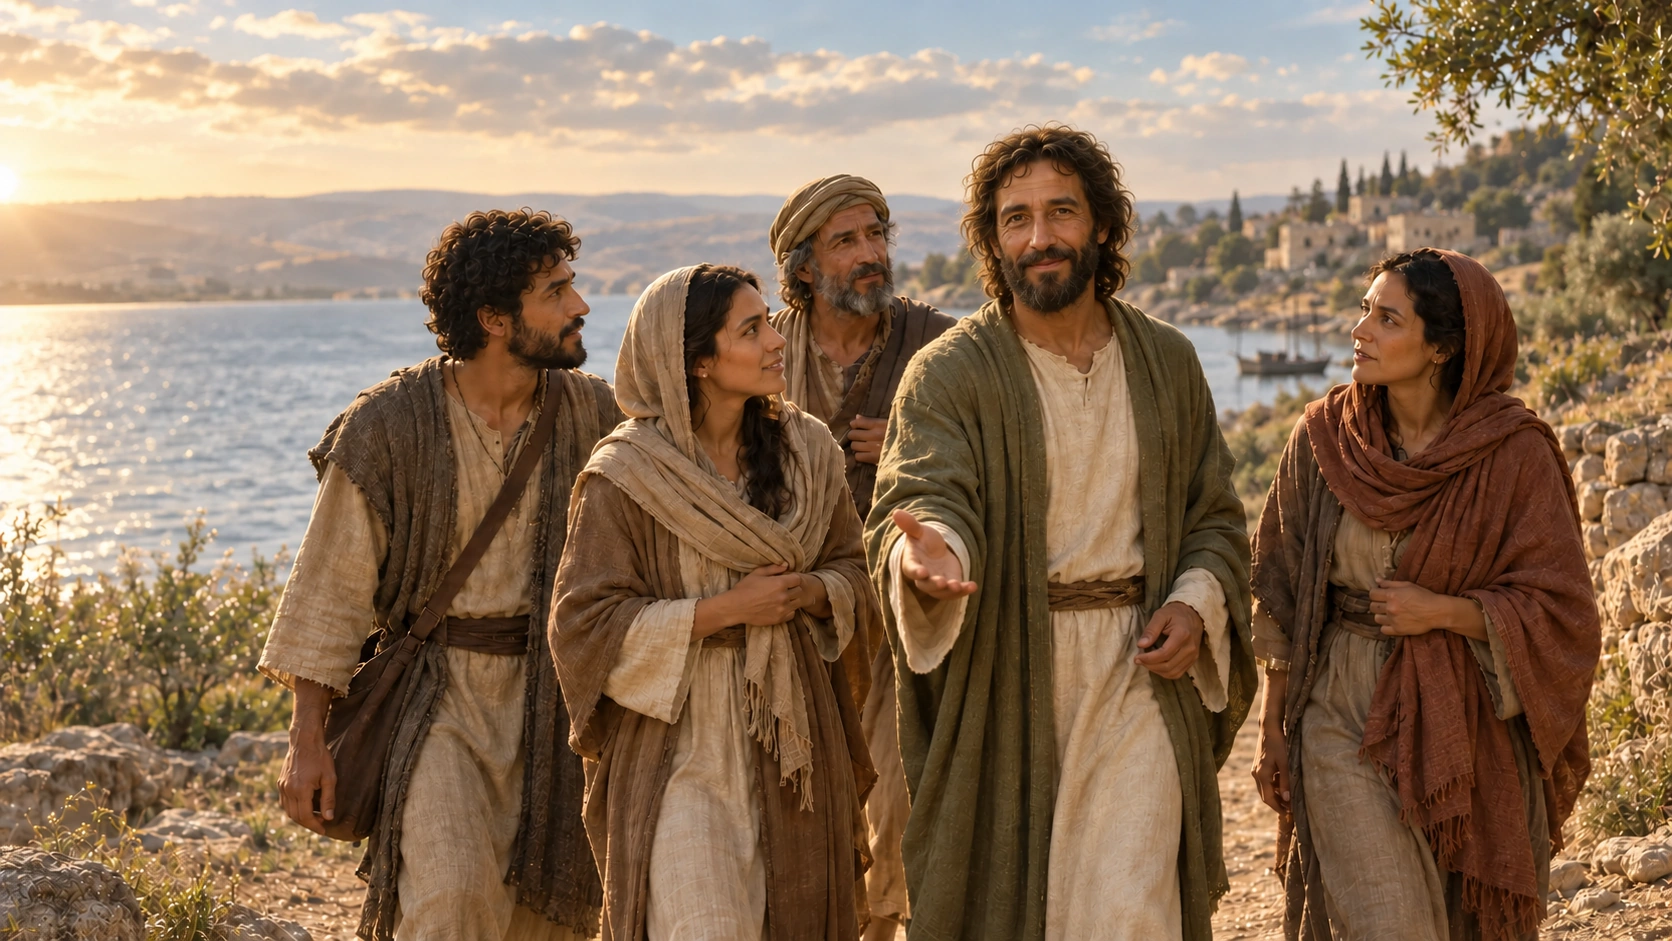
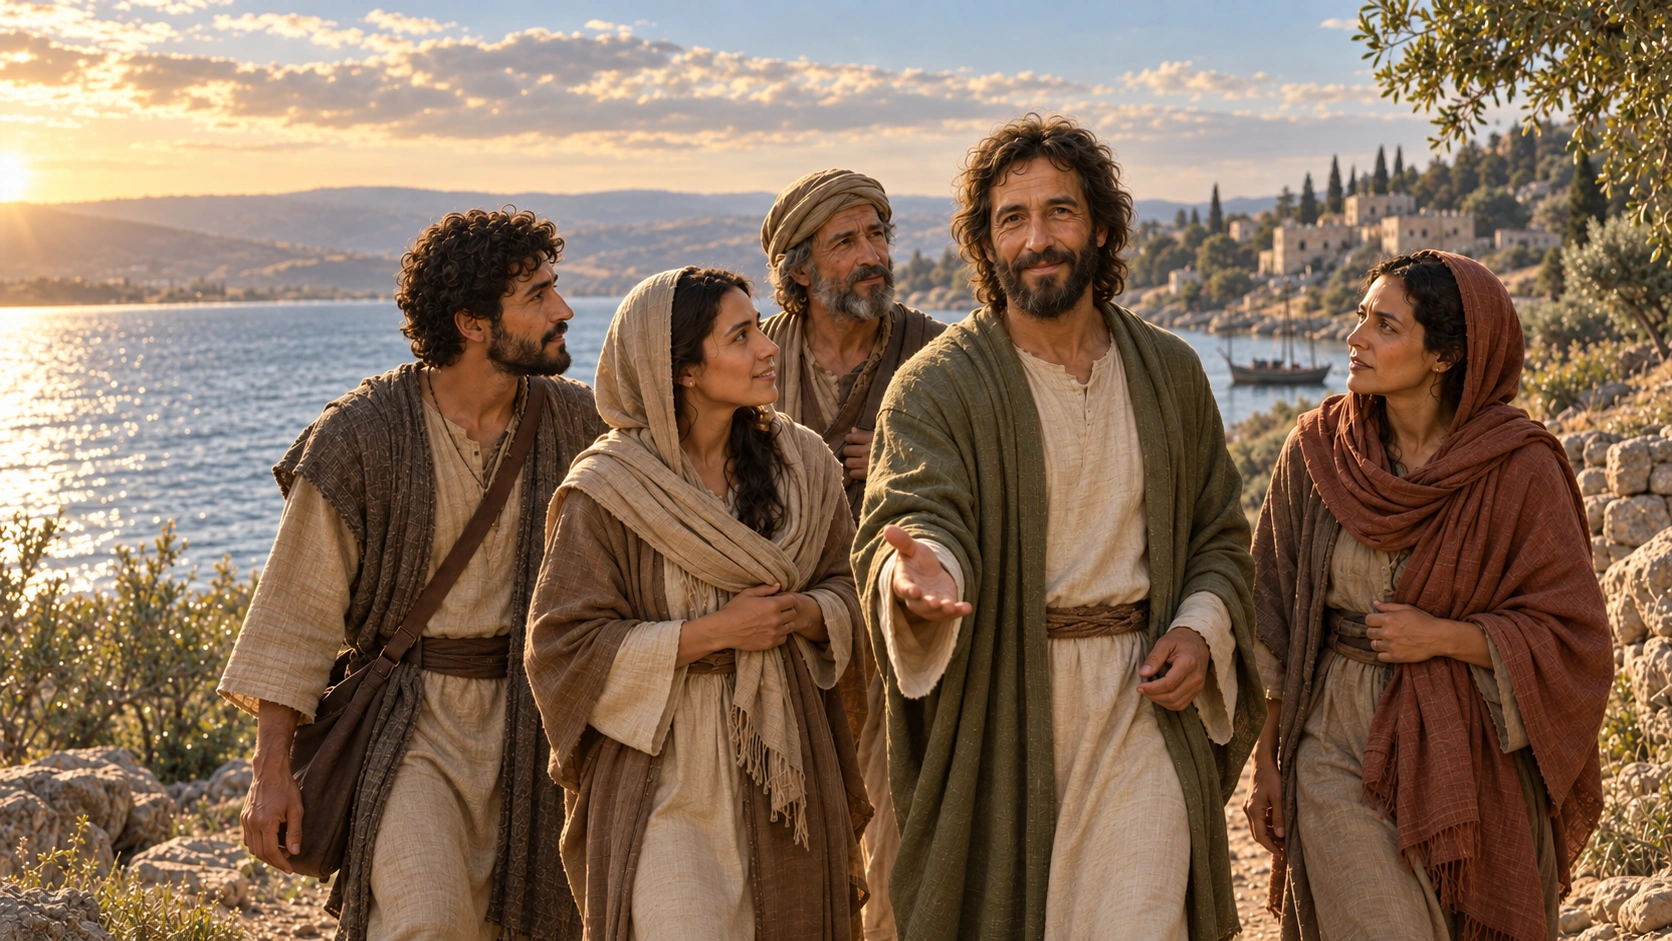
Publish approved Home artwork clarity correction

diff --git a/index.html b/index.html
@@ -80,8 +80,8 @@
         <section class="fc-section">
             <div class="fc-container--standard">
                 <figure class="fc-content-artwork fc-home-featured-art fc-home-featured-art--invitation">
-                    <a class="fc-art-link" href="assets/page-art/home-come-and-see-1672.webp?v=20260905-approved-gaze" target="_blank" rel="noopener noreferrer" data-artwork-detail="home-come-and-see" aria-haspopup="dialog" aria-label="Learn about Christ's invitation to come and see">
-                    <img src="assets/page-art/home-come-and-see-900.webp?v=20260905-approved-gaze" srcset="assets/page-art/home-come-and-see-900.webp?v=20260905-approved-gaze 900w, assets/page-art/home-come-and-see-1672.webp?v=20260905-approved-gaze 1672w" sizes="(max-width: 1076px) calc(100vw - 36px), 1040px" alt="Jesus Christ inviting four attentive seekers to walk with Him beside the Sea of Galilee" width="1672" height="941" loading="lazy" decoding="async">
+                    <a class="fc-art-link" href="assets/page-art/home-come-and-see-1672.webp?v=20260905-approved-clarity" target="_blank" rel="noopener noreferrer" data-artwork-detail="home-come-and-see" aria-haspopup="dialog" aria-label="Learn about Christ's invitation to come and see">
+                    <img src="assets/page-art/home-come-and-see-900.webp?v=20260905-approved-clarity" srcset="assets/page-art/home-come-and-see-900.webp?v=20260905-approved-clarity 900w, assets/page-art/home-come-and-see-1672.webp?v=20260905-approved-clarity 1672w" sizes="(max-width: 1076px) calc(100vw - 36px), 1040px" alt="Jesus Christ inviting four attentive seekers to walk with Him beside the Sea of Galilee" width="1672" height="941" loading="lazy" decoding="async">
                     </a>
                     <figcaption>Come and see. The invitation to follow Jesus Christ begins with a willing step.</figcaption>
                 </figure>
@@ -183,7 +183,7 @@
             <p data-detail-paragraph>This gathering places scripture study, prayer, conversation, and sacred art around Jesus Christ. It reflects the purpose of focusChrist: helping sincere seekers learn of Him and continue into trustworthy study.</p>
             <p data-detail-paragraph>The open scriptures, prayerful posture, and attentive circle reflect ways disciples come to know the Savior: hearing His word, seeking the Father in prayer, and strengthening one another through faithful conversation. Jesus Christ remains at the center of each path.</p>
         </article>
-        <article data-artwork-detail-content="home-come-and-see" data-detail-image="assets/page-art/home-come-and-see-1672.webp?v=20260905-approved-gaze" data-detail-full="assets/page-art/home-come-and-see-1672.webp?v=20260905-approved-gaze" data-detail-image-alt="Jesus Christ inviting four attentive seekers to walk with Him beside the Sea of Galilee" data-detail-source="https://www.churchofjesuschrist.org/study/scriptures/nt/john/1?lang=eng" data-detail-source-label="Read John 1">
+        <article data-artwork-detail-content="home-come-and-see" data-detail-image="assets/page-art/home-come-and-see-1672.webp?v=20260905-approved-clarity" data-detail-full="assets/page-art/home-come-and-see-1672.webp?v=20260905-approved-clarity" data-detail-image-alt="Jesus Christ inviting four attentive seekers to walk with Him beside the Sea of Galilee" data-detail-source="https://www.churchofjesuschrist.org/study/scriptures/nt/john/1?lang=eng" data-detail-source-label="Read John 1">
             <span data-detail-eyebrow>An invitation to follow</span>
             <span data-detail-title>Come and See</span>
             <p data-detail-paragraph>Jesus Christ invited those who sought Him to come, learn, and follow. His invitation is personal and active, calling each seeker to draw near and discover who He is through faith and discipleship.</p>

diff --git a/tools/production_hardening_qa.py b/tools/production_hardening_qa.py
@@ -177,8 +177,8 @@ def check_owner_approved_art_assets(errors: list[str]) -> None:
[10 lines of base64/hex data omitted]

diff --git a/memory/2026-09-05.md b/memory/2026-09-05.md
@@ -33,3 +33,9 @@
 - Opening an artwork resets the detail/viewer scroll to the top; focus movement and restoration use preventScroll. Existing nested detail/full-image behavior and close controls are preserved. All consumers receive updated cache versions.
 - Approved Come and See replacement, all other artwork pixels, heroes, page content, and study links remain unchanged.
 - Focused runtime and structural checks plus independent source review are required. The available browser rejected local and data-URL previews, so rendered phone-size and physical-device acceptance remain unavailable. Do not describe those checks as passed. Verify deployment, delivered asset hashes, and the available live desktop interaction after release.
+
+## Home Come and See clarity correction approved
+
+- Wyatt approved the clearer replacement from exec-c2b06ad3-fcad-4e5d-978a-d1661f8a5c93.png, superseding the earlier gaze revision. Source dimensions are 1672 by 941; do not describe it as 4K.
+- Preserve clear, photographic faces for every person, including rear companions, natural fabric edges, realistic hands, the established likeness, and the olive-cloak lakeside composition.
+- Both delivered WebP sizes derive from the exact approved source. Updated cache references and protected asset hashes cover the Home page, detail window, and full-size view. Other artwork and mobile behavior are unchanged.
